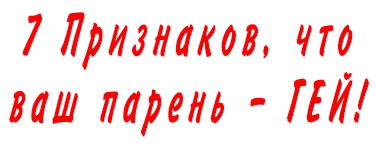
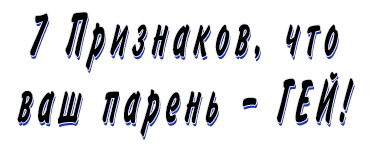
Add files via upload

diff --git a/tren2/index.html b/tren2/index.html
@@ -11,15 +11,15 @@
     <body>
     	<div id="frame">
     		<header>
-				<img src="menu.png" alt="">
+				<img src="menu2.png" alt="">
 			</header>
 		<div id="lgbt"> 
-			<img src="img1.jpg" alt="">
+			<img src="img2.jpg" alt="">
 		</div>
     		
     		<!--основная часть-->
     		<main>
-				<img src="name.png" alt="">
+				<h1>7 признаков, что ваш парень - ГЕЙ...</h1>
 				<h2>1. Манерность</h2>
 				<p>Если речь парня плавная, голос мягкий, как будто переливающийся, он слегка 
 					тянет гласные – в совокупности это должно вас насторожить. «Голубые» 

diff --git a/tren2/css/style.css b/tren2/css/style.css
@@ -1,29 +1,37 @@
 
 body {
-	background: #787873;
+	background: #b6b6b2;
 	width: 376px;
 	margin: 0;
 	padding: 0;
 }
 h1 {
+	font-family: PT Serif;
 	text-align: center;
 }
 h2 {
-	text-align: center;
-	color: rgb(36, 4, 124);
+	font-family: PT Serif;
+	text-align: left;
+	color: black;
+	margin: 0;
+	padding: 0;
+	margin-left: 20px;
 }
 p {
+	font-family: PT Serif;
 	text-align: justify;
-	padding: 0 10px;
+	margin-top: 3px;
+	padding: 0 20px;
 }
  #lgbt {
-margin-top: 90px;
+	margin-left: 20px;
+    margin-top: 100px;
 }
 
 #frame {
 	width: 376px;
 	margin: 0 auto;
-	background: rgba(190, 226, 247, 0.5);
+	background: white;
 	display: table;
 	position: relative;
 }
